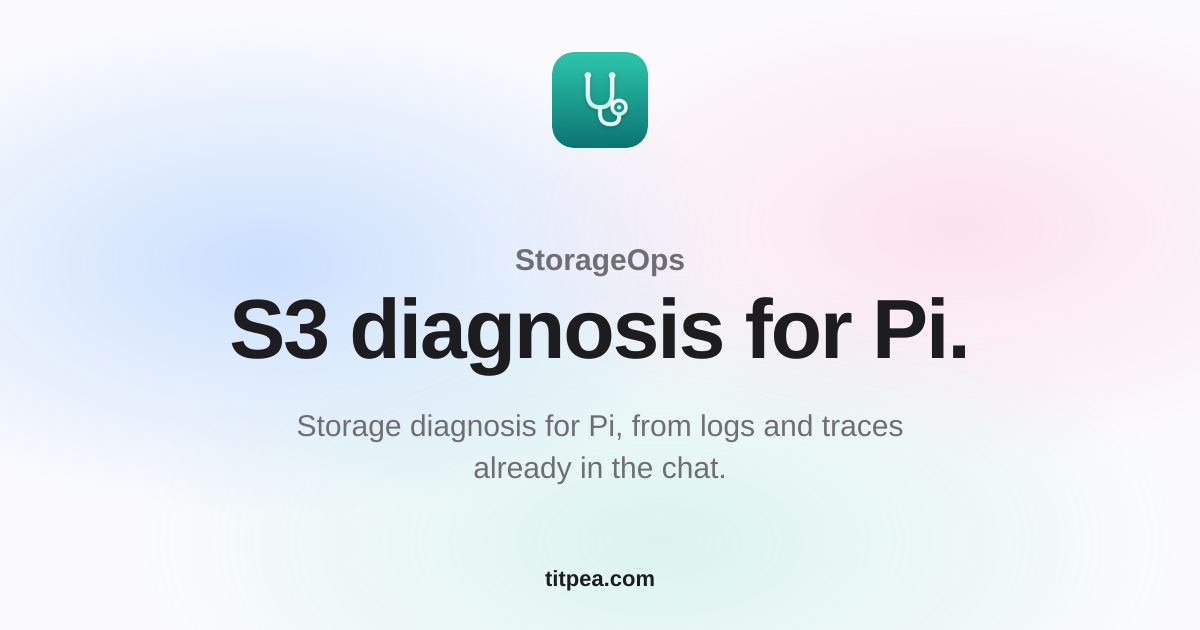
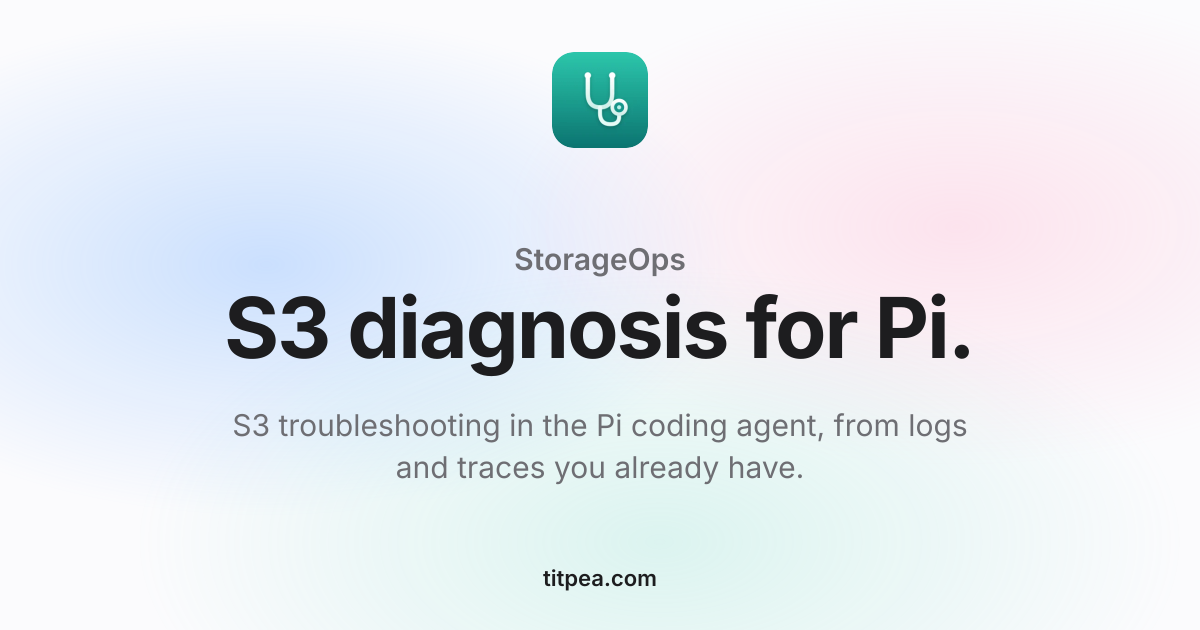
Copy: plain ledes and catalog lines a first-time reader can follow
The v2 review found telegraph copy ("Parquet out.", "Park the Pi session
on BOS") and riddle headings ("Findings outlast the task."). Ledes are now
one or two plain sentences whose first one says what the product does,
with Pi, Baidu Object Storage and similar names spelled out where they
first appear; catalog lines follow. No new claims: every sentence restates
what the page, its README or its FAQ already says.

check.ts allows that length (lede up to 24 words / 56 CJK, a feature line
up to 16 words / 32 CJK), and DESIGN.md's Voice section says why. The
share images whose catalog line changed are redrawn.

Claude-Session: https://claude.ai/code/session_01Ua4GqDMFtzdkp1p8etYmLz

diff --git a/src/content/products/storage-agent-workbench.ts b/src/content/products/storage-agent-workbench.ts
@@ -18,7 +18,7 @@ export default defineProduct({
       "Local, read-only desktop agent for S3-compatible storage: an account check that needs no model, answers that cite what it read, and risks it remembers between tasks.",
     eyebrow: "Looks after object storage",
     headline: "Find what’s wrong in S3.",
-    lead: "Read-only checks. Risks ranked by severity. Fixes you run.",
+    lead: "It checks your S3 storage without changing anything, ranks what it finds by severity, and writes fixes for you to run.",
     catalog: {
       role: "S3 investigation",
       text: "Read-only S3 checks. What needs attention, remembered between tasks.",
@@ -56,7 +56,7 @@ export default defineProduct({
       {
         kind: "cards",
         id: "features",
-        label: "Findings outlast the task.",
+        label: "It remembers what it found.",
         items: [
           { title: "Check without a model", body: "“Check account” surveys and reads access with no key at all." },
           { title: "Names what it missed", body: "Says “All 2 buckets checked”, or names each blind or failed read." },
@@ -115,7 +115,7 @@ export default defineProduct({
       "面向 S3 兼容存储的本地只读桌面 Agent：账户检查不需要模型，回答引用它读到的内容，发现的风险跨任务保留。",
     eyebrow: "照看对象存储",
     headline: "找出 S3 里的隐患",
-    lead: "只读检查。风险按严重度排好。修复由你执行。",
+    lead: "只读检查你的 S3 存储，不做任何改动。发现的风险按严重度排好，修复写好由你执行。",
     catalog: {
       role: "S3 排查",
       text: "只读 S3 排查。需要关注的问题跨任务保留。",
@@ -151,7 +151,7 @@ export default defineProduct({
       {
         kind: "cards",
         id: "features",
-        label: "发现不随任务结束",
+        label: "查到的问题会记下来",
         items: [
           { title: "不用模型也能检查", body: "“检查账户”不需要任何密钥，就能盘点并读取访问权限。" },
           { title: "说清没读到什么", body: "全部检查完会写明；读不到、读失败的逐一列出。" },

diff --git a/src/content/products/agent-radar.ts b/src/content/products/agent-radar.ts
@@ -17,7 +17,7 @@ export default defineProduct({
     description: "Scheduled research on the agent industry, with sourced Markdown briefs and watchlists saved in Git.",
     eyebrow: "Scheduled Markdown research",
     headline: "Agent news, with sources.",
-    lead: "Public sources. Citation checks. Markdown briefs in Git.",
+    lead: "Markdown briefs on AI agents, built from public sources on a GitHub Actions schedule. Citations are checked; every change stays in Git.",
     catalog: {
       role: "Weekly briefs",
       text: "Sourced Markdown briefs, on a GitHub Actions timer.",
@@ -63,7 +63,7 @@ export default defineProduct({
         kind: "cards",
         id: "features",
         nav: "Research loop",
-        label: "One model screens, then drafts.",
+        label: "One model screens the sources, then drafts.",
         items: [
           { title: "Weekly thesis", body: "Current judgment, what changed, and open questions." },
           { title: "Watchlist", body: "Mainstream and emerging agents, sourcing graded Strong to None." },
@@ -110,7 +110,7 @@ export default defineProduct({
     description: "定时整理 Agent 产业动态，把带来源的 Markdown 周报与观察名单保存在 Git 中。",
     eyebrow: "定时 Markdown 调研",
     headline: "Agent 动态，附来源",
-    lead: "公开来源。引用校验。Markdown 周报存进 Git。",
+    lead: "用公开来源定时生成 AI Agent 调研周报（Markdown）。引用会被校验，每次改动都留在 Git 里。",
     catalog: {
       role: "每周简报",
       text: "GitHub Actions 定时跑，生成带来源的 Markdown 周报。",

diff --git a/scripts/check.ts b/scripts/check.ts
@@ -170,7 +170,8 @@ function checkCopy(product: Product, locale: Locale, copy: ProductCopy) {
   const cjk = (text: string) =>
     text.replace(/[A-Za-z0-9][\w.+-]*/g, "x").replace(/[\s，。、；：！？（）“”]/g, "").length;
   const tooLong = (text: string, en: number, zh: number) => (locale === "en" ? words(text) > en : cjk(text) > zh);
-  if (tooLong(copy.lead, 14, 36)) fail(`${at}: lead is not 2–3 short fragments: "${copy.lead}"`);
+  // One or two plain sentences: short, but whole enough that a first-time reader follows them.
+  if (tooLong(copy.lead, 24, 56)) fail(`${at}: lead is longer than two short sentences: "${copy.lead}"`);
   for (const section of copy.sections) {
     if (product.sectionIndex && !section.nav) fail(`${at}: section "${section.id}" needs a short nav label`);
     if (section.nav && tooLong(section.nav, 4, 8)) fail(`${at}: nav label "${section.nav}" is longer than 4 words`);
@@ -190,7 +191,7 @@ function checkCopy(product: Product, locale: Locale, copy: ProductCopy) {
     if (section.kind === "cards") {
       for (const item of section.items) {
         if (tooLong(item.title, 5, 10)) fail(`${at}: card title is long: "${item.title}"`);
-        if (tooLong(item.body, 12, 24)) fail(`${at}: card body is not a short fragment: "${item.body}"`);
+        if (tooLong(item.body, 16, 32)) fail(`${at}: card body is longer than one short line: "${item.body}"`);
       }
     }
   }

diff --git a/src/content/products/storageops.ts b/src/content/products/storageops.ts
@@ -16,10 +16,10 @@ export default defineProduct({
     description: "A Pi Coding Agent extension and skill pack for diagnosing S3-compatible object storage.",
     eyebrow: "Pi Coding Agent extension",
     headline: "S3 diagnosis for Pi.",
-    lead: "Skills and tools for Pi. Your logs and traces. No cloud account.",
+    lead: "Storage troubleshooting inside Pi, the open-source coding agent, from the logs and traces you bring. No cloud account needed.",
     catalog: {
       role: "Pi extension",
-      text: "Storage diagnosis for Pi, from logs and traces already in the chat.",
+      text: "S3 troubleshooting in the Pi coding agent, from logs and traces you already have.",
     },
     primaryCta: {
       label: "View on GitHub",
@@ -150,7 +150,7 @@ export default defineProduct({
     description: "面向 S3 兼容对象存储的 Pi Coding Agent 扩展与技能包。",
     eyebrow: "Pi Coding Agent 扩展",
     headline: "在 Pi 里排查对象存储",
-    lead: "给 Pi 的技能包和工具。用你的日志和 trace。不接云账号。",
+    lead: "在开源编码 Agent Pi 里排查对象存储问题，用的是你提供的日志和 trace。不接云账号。",
     catalog: {
       role: "Pi 扩展",
       text: "用聊天里已有的日志和 trace，在 Pi 里做存储排查。",

diff --git a/src/content/products/pagewise.ts b/src/content/products/pagewise.ts
@@ -18,7 +18,7 @@ export default defineProduct({
       "Read and annotate PDFs on your desktop, ask questions, and check each citation and its numbers on the page, scanned pages included.",
     eyebrow: "PDF reading and questions",
     headline: "Ask. Check the page.",
-    lead: "Ask a question. Citations: “verified”, “check the page” or “not found”. Scans read locally.",
+    lead: "Ask a PDF a question. Each citation is marked “verified”, “check the page” or “not found”. Scans are read on your computer.",
     catalog: {
       role: "PDF assistant",
       text: "Ask a PDF. Follow the citation to the page.",
@@ -123,7 +123,7 @@ export default defineProduct({
     description: "在桌面阅读和批注 PDF，围绕文档提问，逐条对照原页核对引用和其中的数字，扫描页也不例外。",
     eyebrow: "PDF 阅读与问答",
     headline: "问过之后，回到原文",
-    lead: "直接提问。每条引用标为“已核对”“请看原页”或“未找到”。扫描件在本机识别。",
+    lead: "向 PDF 提问。每条引用都标为“已核对”“请看原页”或“未找到”。扫描件在本机识别。",
     catalog: {
       role: "PDF 助手",
       text: "向 PDF 提问。顺着引用回到原页。",

diff --git a/src/content/products/world-machine.ts b/src/content/products/world-machine.ts
@@ -30,7 +30,7 @@ export default defineProduct({
       "A small persistent world that grows a day at a time: each day you sit down with it, a morning brings a letter, a choice and a find. An experimental macOS app in pre-alpha.",
     eyebrow: "Experimental macOS project",
     headline: "It grows a day at a time.",
-    lead: "Come back each day. A morning waits. macOS pre-alpha.",
+    lead: "A small world on your Mac that grows one day at a time. Come back each day; a morning waits. Pre-alpha.",
     catalog: {
       role: "Pre-alpha",
       text: "A small world with a morning for every day you visit. macOS, pre-alpha.",
@@ -149,7 +149,7 @@ export default defineProduct({
       "一个一天一天长大的小世界：每天陪它坐一会儿，早晨会带来一封信、一个选择和一件新发现。面向 macOS 的实验性应用，当前为早期预览版。",
     eyebrow: "macOS 实验项目",
     headline: "世界一天一天地长大",
-    lead: "每天回来看看。早晨在等你。macOS 早期预览版。",
+    lead: "Mac 上一个一天天长大的小世界。每天回来看看，早晨在等你。早期预览版。",
     catalog: {
       role: "早期预览",
       text: "每天来，都有早晨等你的小世界。macOS，早期预览版。",

diff --git a/src/content/products/s3-turbo-list.ts b/src/content/products/s3-turbo-list.ts
@@ -17,10 +17,10 @@ export default defineProduct({
     description: "Automatic S3-compatible list / diff with analysis-ready Parquet output.",
     eyebrow: "Rust CLI",
     headline: "Know what’s in a bucket.",
-    lead: "Lists and diffs large buckets in parallel. No tuning first. Parquet out.",
+    lead: "Lists a large S3 bucket, or compares two, in parallel. No tuning first: the result is a Parquet file you can query.",
     catalog: {
       role: "List / Diff",
-      text: "List and diff S3 objects in parallel. Parquet out, ready to analyze.",
+      text: "Lists a large S3 bucket, or compares two, into a Parquet file you can query.",
     },
     primaryCta: {
       label: "View on GitHub",
@@ -145,7 +145,7 @@ Doctor status: ok`,
     description: "自动分段的 S3 兼容 list / diff，输出可直接分析的 Parquet 结果。",
     eyebrow: "Rust CLI",
     headline: "桶里有什么，一次列清",
-    lead: "大规模桶并行 list 与 diff。不必先调参。输出 Parquet。",
+    lead: "并行列出一个大桶，或对比两个桶。不必先调参，结果是可以直接查询的 Parquet 文件。",
     catalog: {
       role: "列举 / 对比",
       text: "并行列举和对比 S3 对象，输出可继续分析的 Parquet。",

diff --git a/src/content/products/pulse.ts b/src/content/products/pulse.ts
@@ -18,7 +18,7 @@ export default defineProduct({
       "Check local coding-agent sessions in the macOS menu bar: red when one is blocked, a quiet count when it is your turn. Six agents, through their own hooks.",
     eyebrow: "Menu-bar status for coding agents",
     headline: "Which agent needs you.",
-    lead: "Red means blocked. Your turn stays quiet. Every lamp says why.",
+    lead: "A lamp in the menu bar for your coding agents. Red means one is blocked; your turn stays quiet; every lamp says why.",
     catalog: {
       role: "",
       text: "The menu-bar lamp for coding agents that need you.",
@@ -207,7 +207,7 @@ export default defineProduct({
       "本机编码 Agent 会话的 macOS 菜单栏状态灯：阻塞时亮红灯，轮到你时只安静计数。支持六个 Agent，走它们自己的 hook。",
     eyebrow: "编码 Agent 的菜单栏状态灯",
     headline: "看看哪个 Agent 需要你",
-    lead: "红灯只给阻塞。轮到你只安静计数。每盏灯都说出原因。",
+    lead: "菜单栏里的一盏灯，看着你的编码 Agent。红灯表示有 Agent 卡住了；轮到你时只安静计数；每盏灯都说出原因。",
     catalog: {
       role: "",
       text: "菜单栏上看哪个编码 Agent 需要你。",

diff --git a/src/content/products/celagent.ts b/src/content/products/celagent.ts
@@ -18,10 +18,10 @@ export default defineProduct({
       "Pi, the open-source terminal coding agent, with sessions saved to Baidu Object Storage (BOS) and restored by ID on another configured machine.",
     eyebrow: "Built on Pi, the open-source terminal coding agent",
     headline: "Resume on another device.",
-    lead: "Pi sessions, saved to Baidu Object Storage (BOS). Resume on another configured machine.",
+    lead: "Saves each Pi coding-agent session to Baidu Object Storage (BOS), turn by turn. Resume it on another machine you have set up.",
     catalog: {
       role: "Session recovery",
-      text: "Park the Pi session on BOS, resume it on another machine.",
+      text: "Save a Pi coding-agent session to Baidu Object Storage, then resume it on another machine.",
     },
     primaryCta: {
       label: "Install",
@@ -123,7 +123,7 @@ export default defineProduct({
     lead: "Pi 编码会话存进百度对象存储（BOS）。在已配置的另一台机器上，按 ID 接着用。",
     catalog: {
       role: "会话恢复",
-      text: "把 Pi 会话停在 BOS，换一台机器继续。",
+      text: "把 Pi 编码会话存进百度对象存储（BOS），换一台机器接着用。",
     },
     primaryCta: {
       label: "安装",

diff --git a/src/content/products/readout.ts b/src/content/products/readout.ts
@@ -18,7 +18,7 @@ export default defineProduct({
       "A native, read-only Markdown reader for macOS, made for what AI agents write: it opens their new documents, follows them live and marks what changed since you last read.",
     eyebrow: "Markdown reader for macOS",
     headline: "Read what agents write.",
-    lead: "Follows the file live. Marks what changed. Read-only.",
+    lead: "A Mac reader for the Markdown that coding agents write. It follows the file live, marks what changed, and never edits it.",
     catalog: {
       role: "",
       text: "Read an agent’s Markdown as it changes, with edits marked.",
@@ -164,7 +164,7 @@ export default defineProduct({
       "为 AI Agent 写的文档打造的 macOS 原生只读 Markdown 阅读器：自动打开 Agent 新建的文档，跟随写入实时更新，标出自你上次阅读以来哪里变了。",
     eyebrow: "macOS Markdown 阅读器",
     headline: "读 Agent 写的文档",
-    lead: "实时跟随写入。标出改动。始终只读。",
+    lead: "Mac 上的 Markdown 阅读器，读编码 Agent 写的文档。实时跟随写入，标出改动，从不修改文件。",
     catalog: {
       role: "",
       text: "边写边读 Agent 的 Markdown，改动处一目了然。",

diff --git a/src/content/products/chessboard.ts b/src/content/products/chessboard.ts
@@ -50,7 +50,7 @@ export default defineProduct({
       "A desktop chess app for macOS and Windows, with Stockfish 19 and Maia opponents, lessons, 40,000 puzzles, and a searchable game library.",
     eyebrow: "Desktop chess",
     headline: "Chess you can review.",
-    lead: "A Stockfish review marks the mistakes. Lessons. 40,000 puzzles.",
+    lead: "A Stockfish review marks your mistakes. Lessons and 40,000 puzzles to practise with.",
     catalog: {
       role: "Stockfish + lessons",
       text: "Learn, solve puzzles, then play the computer or a friend on the same board.",
@@ -186,7 +186,7 @@ export default defineProduct({
     description: "面向 macOS 与 Windows 的桌面国际象棋：Stockfish 19 与 Maia 对手、课程、四万道谜题与可搜索的棋谱库。",
     eyebrow: "桌面国际象棋",
     headline: "下完一局，复盘失着",
-    lead: "Stockfish 复盘标出失着。课程。四万道谜题。",
+    lead: "Stockfish 复盘标出你的失着，还有课程和四万道谜题可以练。",
     catalog: {
       role: "Stockfish 与课程",
       text: "学棋、解谜题，再与电脑或同屏好友下一局。",

diff --git a/src/content/products/easier-bookmarks.ts b/src/content/products/easier-bookmarks.ts
@@ -16,7 +16,7 @@ export default defineProduct({
     description: "Chrome side panel and address-bar search for the bookmark tree already in this browser.",
     eyebrow: "Chrome extension",
     headline: "Bookmarks at your side.",
-    lead: "Your bookmark tree. In the side panel and the address bar. No external servers.",
+    lead: "Search and file the bookmarks Chrome already has, from the side panel or the address bar. No external servers.",
     catalog: {
       role: "Side panel",
       text: "Search the bookmarks Chrome already has, from the side panel or the address bar.",
@@ -111,7 +111,7 @@ export default defineProduct({
     description: "Chrome 侧边栏和地址栏里的书签工具，在本地搜索、收藏和整理书签。",
     eyebrow: "Chrome 扩展",
     headline: "书签在侧边，随手整理",
-    lead: "已有的书签树。在侧边栏，也在地址栏。无外部服务器。",
+    lead: "在侧边栏或地址栏，搜索和整理 Chrome 里已有的书签。不经过任何外部服务器。",
     catalog: {
       role: "侧边栏",
       text: "在侧边栏或地址栏搜索 Chrome 里已有的书签。",
